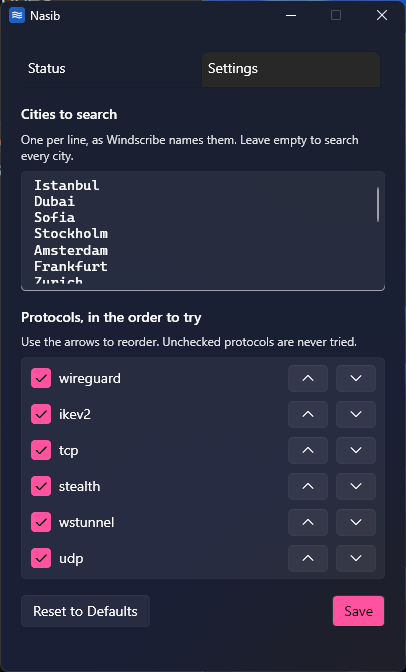
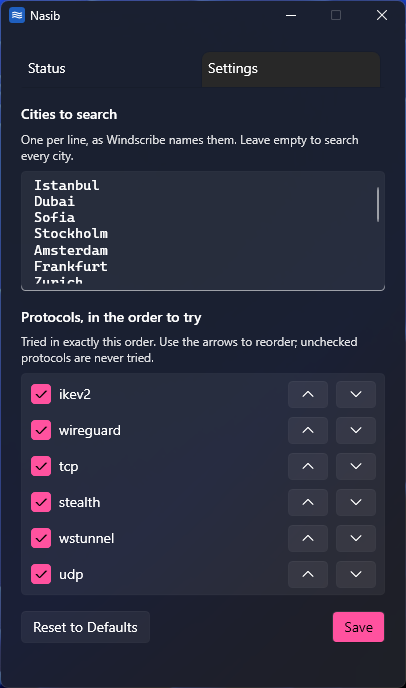
docs: retake Windows screenshots with Stop and colored output

diff --git a/README.md b/README.md
@@ -71,7 +71,7 @@ area without the window, from wherever `Nasib.exe` was when you turned it on.
 <p align="center">
   <img src="docs/images/windows-status.png" width="320" alt="Windows Status tab: the current server, Find Now, Start Survey and Show Log, the two toggles, and the engine's output">
   <img src="docs/images/windows-settings.png" width="320" alt="Windows Settings tab: cities to search, and protocols in the order to try with arrows to reorder them">
-  <img src="docs/images/windows-tray-menu.png" width="200" alt="Windows tray menu: Nasib, the status line, Open Nasib, Find Now, About Nasib and Quit Nasib">
+  <img src="docs/images/windows-tray-menu.png" width="166" alt="Windows tray menu: Nasib, the status line, Open Nasib, Find Now, About Nasib and Quit Nasib">
 </p>
 
 ### Set Windscribe's anti-censorship options yourself
